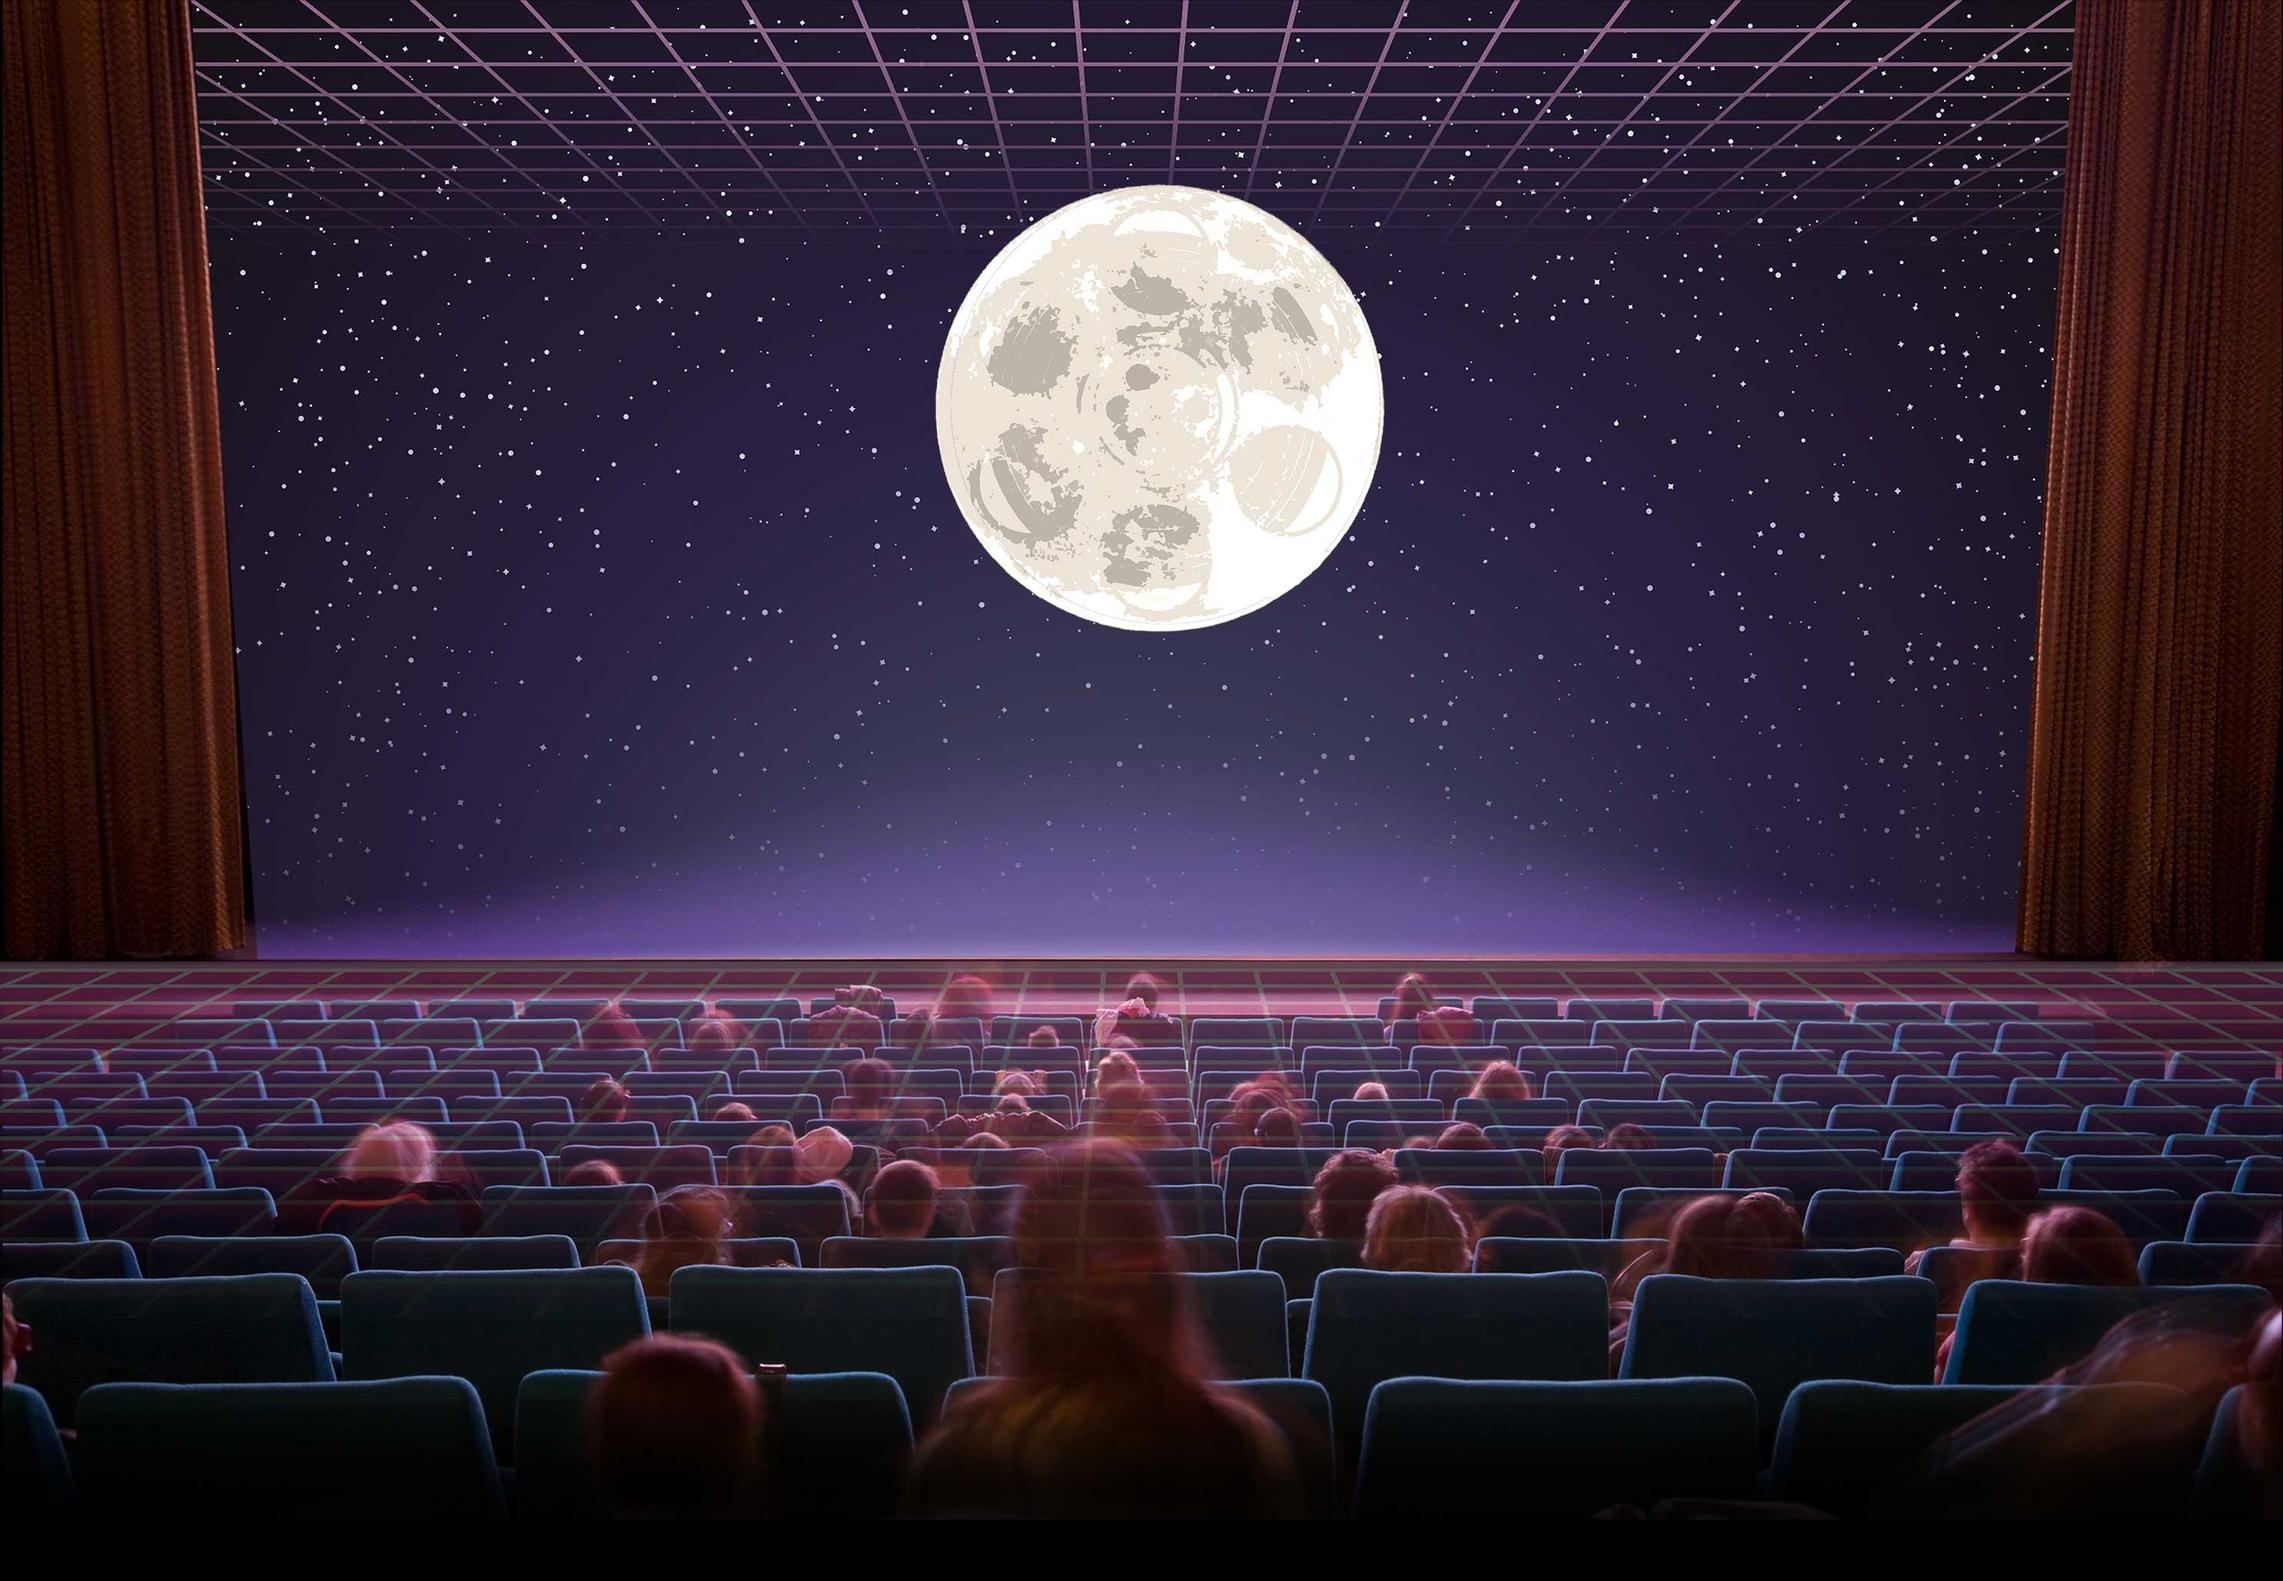
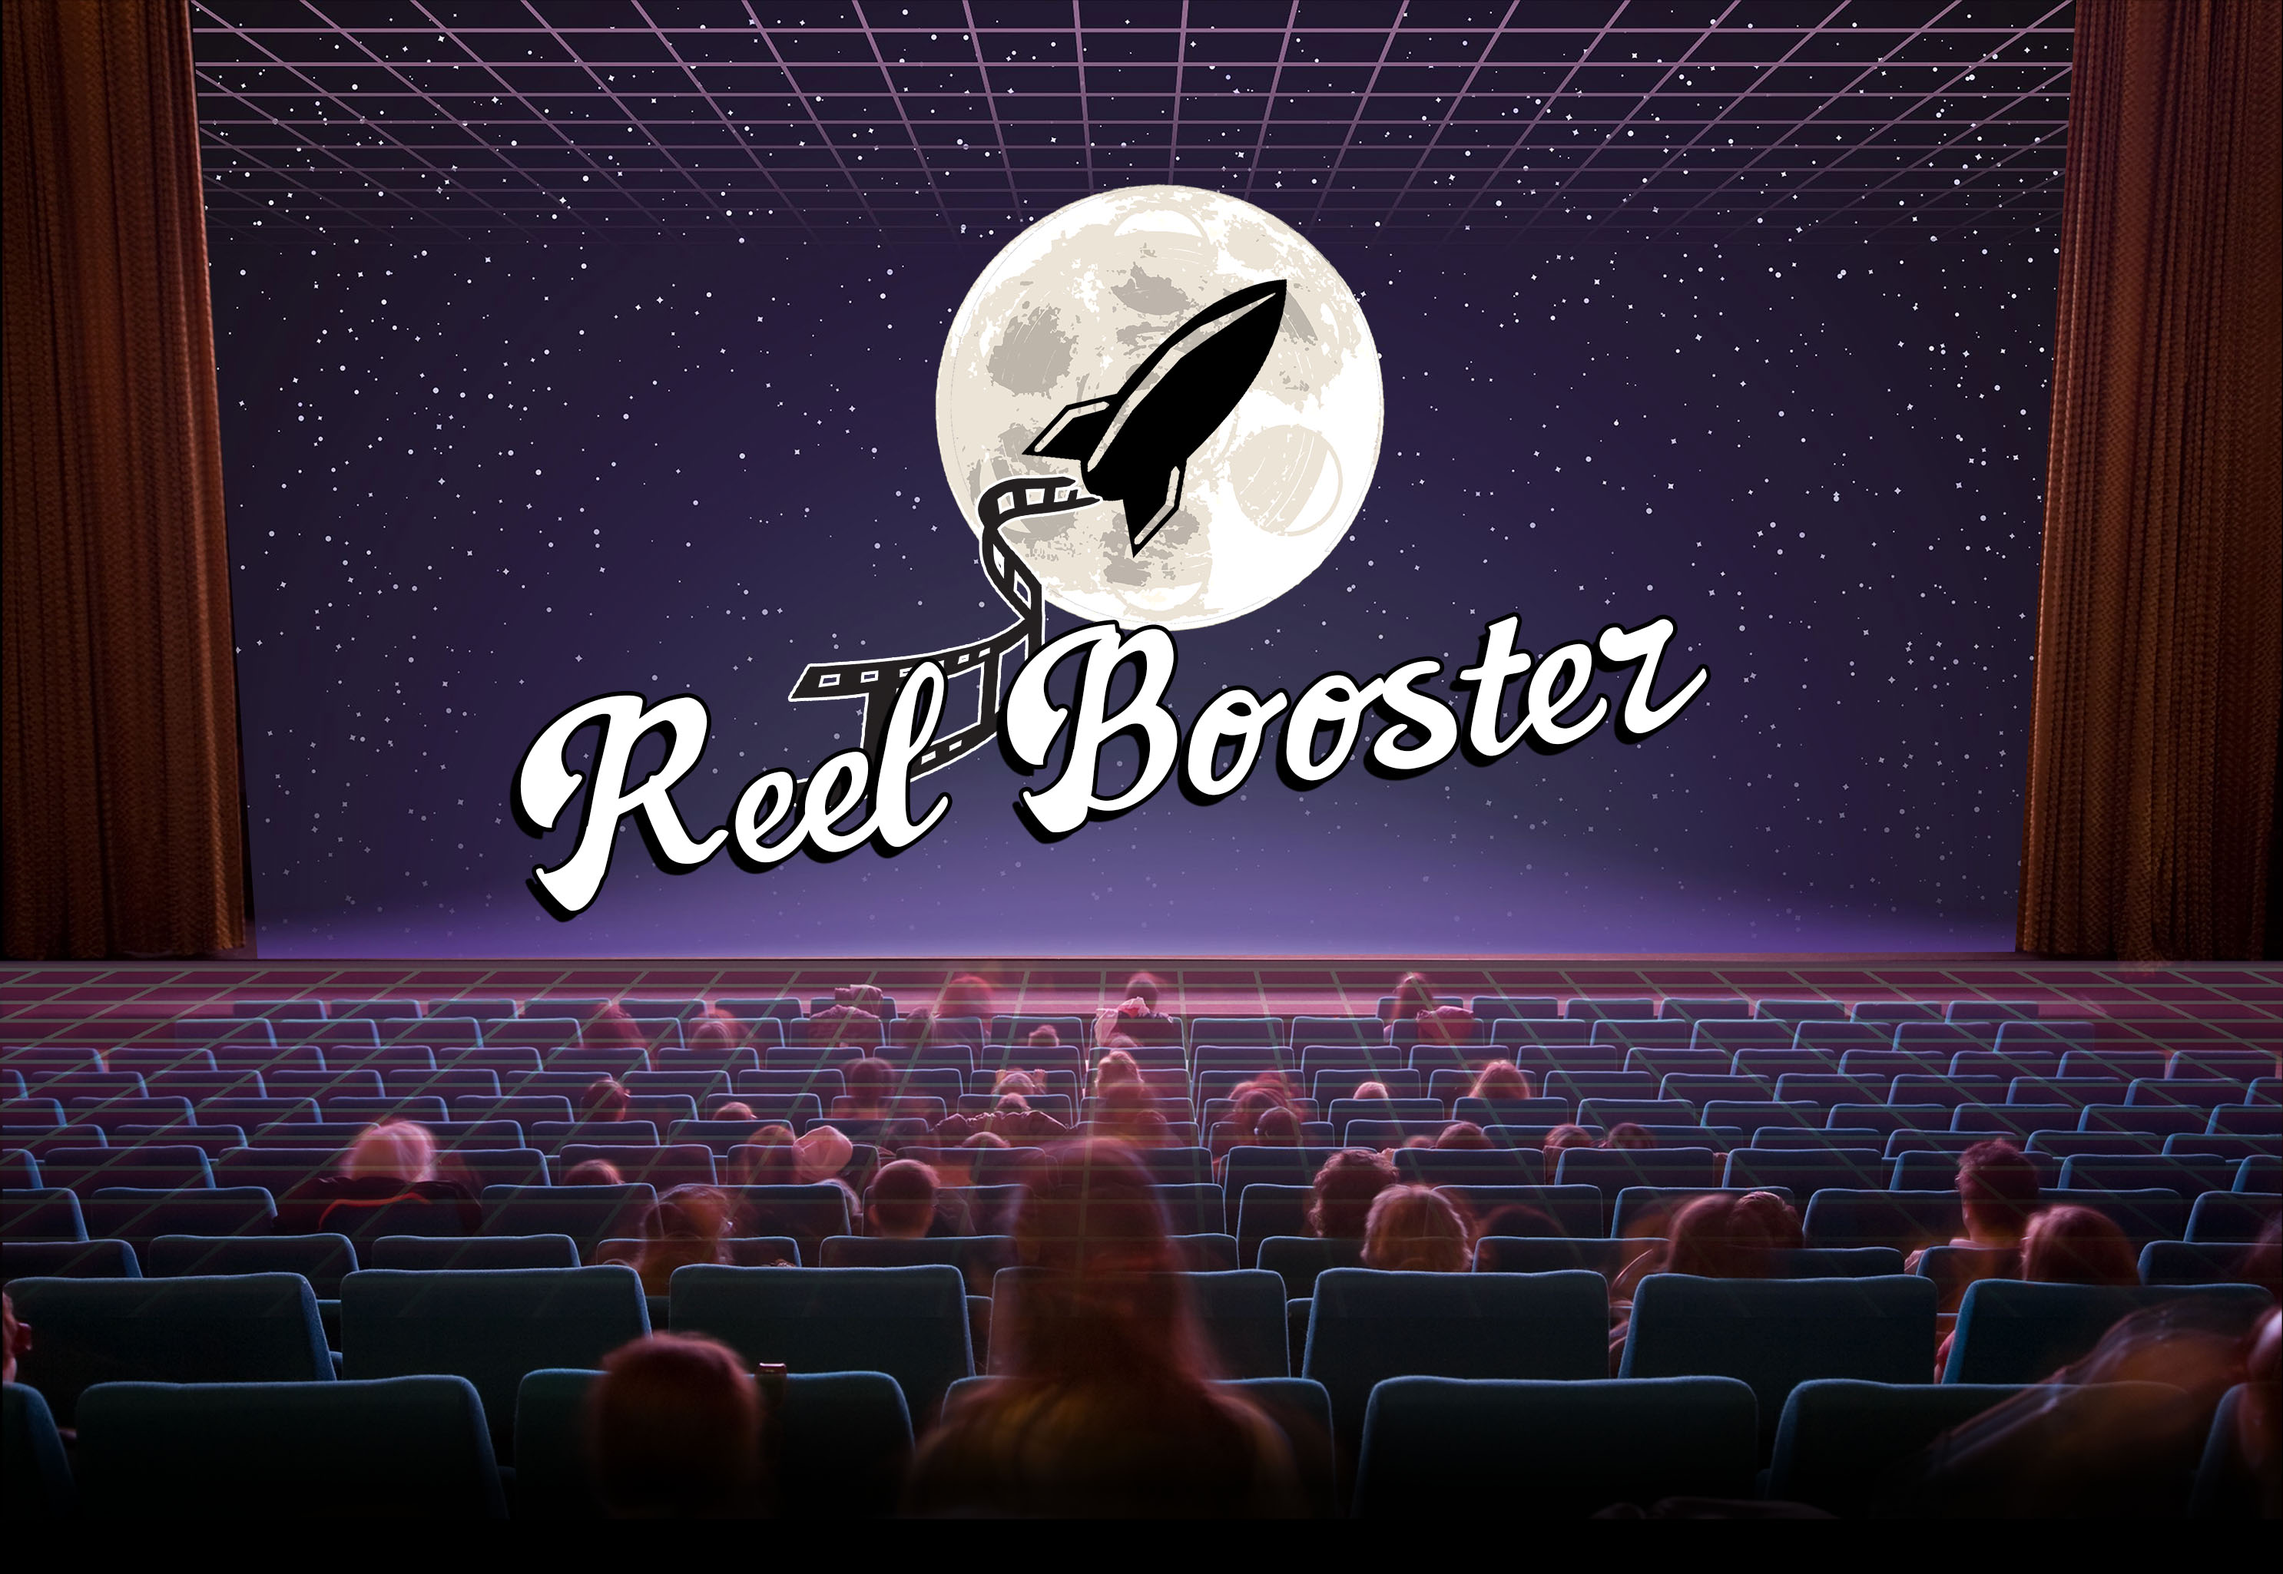
update

Changed region(s): [[0.0, 0.1561, 1.0, 0.9054]]

diff --git a/index.html b/index.html
@@ -42,7 +42,14 @@
     @media (max-width:961px) {
       body {
         /* tablet, landscape iPad, lo-res laptops ands desktops */
-        background-size: 200% auto;
+        background-size: 150% auto;
+      }
+    }
+
+    @media only screen and (min-width: 1600px) {
+      body {
+        /* tablet, landscape iPad, lo-res laptops ands desktops */
+        background-size: 90% auto;
       }
     }
 
@@ -66,7 +73,7 @@
         font-family: 'Booster-swash';
       } */
     h2 {
-      margin: 0;
+      margin: 30px;
       margin-top: 100px;
       font-size: 2em;
       font-family: "Signika";
@@ -79,14 +86,20 @@
       font-size: 1.2em;
     }
 
+    @media (max-width:961px) {
+      h2 {
+        font-size: 1.5em;
+      }
+    }
+
     h3 {
       font-family: 'Gill Sans', 'Gill Sans MT', Calibri, 'Trebuchet MS', sans-serif;
       font-size: 3em;
     }
 
-    .container {
-      display: flex;
-      justify-content: center;
+    img {
+      width: 40%; max-width: 900px; min-width: 300px; margin-top: 250px;
+      visibility: hidden;
     }
 
     .column {
@@ -164,7 +177,7 @@
 
 <body>
   <header>
-    <img src="./reelboost-logo.png" style="width: 40%; max-width: 900px; min-width: 300px; margin-top: 250px;" />
+    <img src="./reelboost-logo.png"  />
     <!-- <h1>Reel Booster</h1> -->
     <h2>
       A new platform that gives <br />
